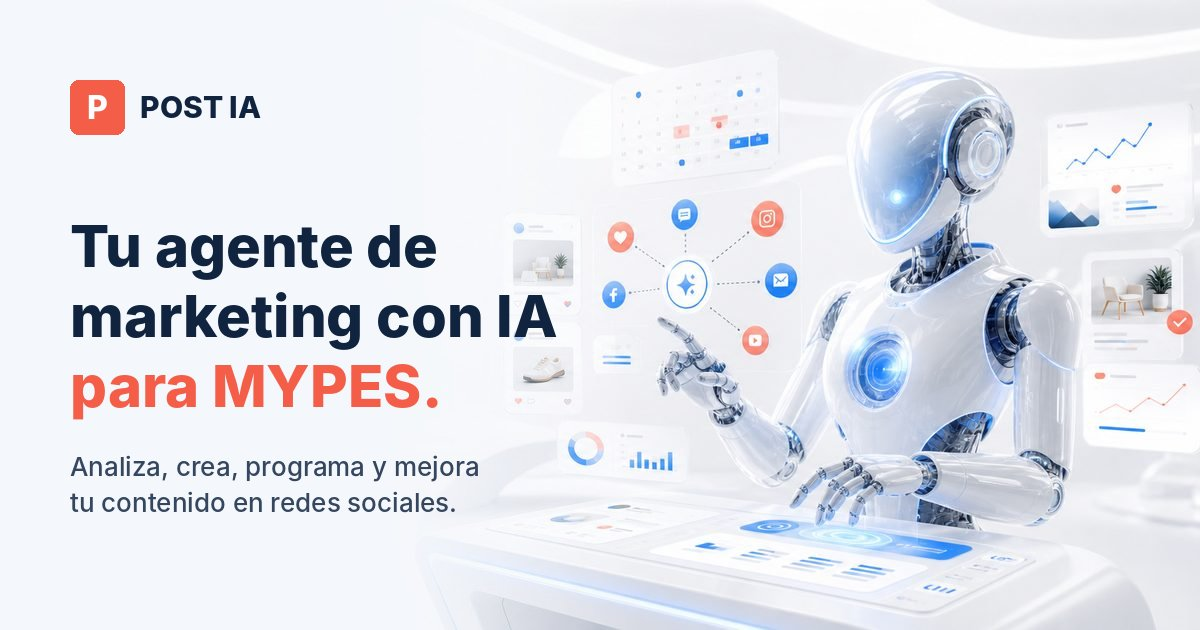
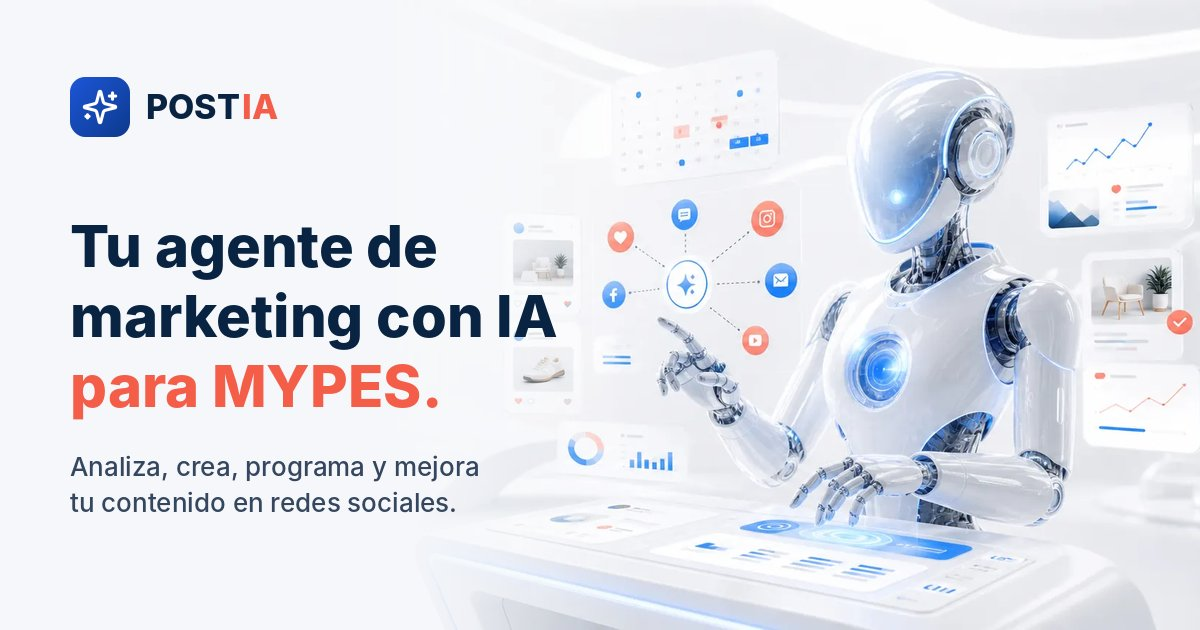
Aplicar branding de Figma (POST IA · App móvil)
- Símbolo del logo: cuadrado azul degradado (#1d56d8 -> #0c398d) con destello
- Logotipo: "POST" en azul marino (#092342) + "IA" en coral (#f45d48)
- Mismo símbolo en header, footer, demo del Studio y favicon
- Azul de acento alineado al de la app (#1d56d8)
- Imagen para compartir regenerada con el nuevo logo

Claude-Session: https://claude.ai/code/session_01MpzHq3h7SHUGHSTSj1LYq7

Changed region(s): [[0.0308, 0.1206, 0.2467, 0.2413]]

diff --git a/index.html b/index.html
@@ -7,7 +7,7 @@
       name="description"
       content="POST IA automatiza el marketing digital de las MYPES: analiza, crea, programa y mejora contenido para redes sociales."
     />
-    <meta name="theme-color" content="#f4f7fb" />
+    <meta name="theme-color" content="#f5f7fa" />
     <title>POST IA | Marketing que trabaja contigo</title>
     <link rel="canonical" href="https://fabricioonpoint-bot.github.io/postia.pe/" />
     <link rel="icon" href="favicon.svg" type="image/svg+xml" />
@@ -39,8 +39,8 @@
   <body>
     <header class="site-header">
       <a class="brand" href="#inicio" aria-label="POST IA, ir al inicio">
-        <span class="brand-symbol" aria-hidden="true">P</span>
-        <span>POST IA</span>
+        <span class="brand-symbol" aria-hidden="true"><svg viewBox="0 0 24 24" fill="none" stroke="currentColor" stroke-width="2" stroke-linecap="round" stroke-linejoin="round" aria-hidden="true"><path d="M9.937 15.5A2 2 0 0 0 8.5 14.063l-6.135-1.582a.5.5 0 0 1 0-.962L8.5 9.936A2 2 0 0 0 9.937 8.5l1.582-6.135a.5.5 0 0 1 .963 0L14.063 8.5A2 2 0 0 0 15.5 9.937l6.135 1.581a.5.5 0 0 1 0 .964L15.5 14.063a2 2 0 0 0-1.437 1.437l-1.582 6.135a.5.5 0 0 1-.963 0z"/><path d="M20 3v4"/><path d="M22 5h-4"/><path d="M4 17v2"/><path d="M5 18H3"/></svg></span>
+        <span class="brand-word">POST<em>IA</em></span>
       </a>
       <nav class="desktop-nav" id="mainNav" aria-label="Navegación principal">
         <a href="#problema">Problema</a>
@@ -218,7 +218,7 @@
 
           <div class="studio-window reveal">
             <header class="studio-topbar">
-              <div class="studio-logo"><span>P</span><strong>POST IA Studio</strong></div>
+              <div class="studio-logo"><span><svg viewBox="0 0 24 24" fill="none" stroke="currentColor" stroke-width="2" stroke-linecap="round" stroke-linejoin="round" aria-hidden="true"><path d="M9.937 15.5A2 2 0 0 0 8.5 14.063l-6.135-1.582a.5.5 0 0 1 0-.962L8.5 9.936A2 2 0 0 0 9.937 8.5l1.582-6.135a.5.5 0 0 1 .963 0L14.063 8.5A2 2 0 0 0 15.5 9.937l6.135 1.581a.5.5 0 0 1 0 .964L15.5 14.063a2 2 0 0 0-1.437 1.437l-1.582 6.135a.5.5 0 0 1-.963 0z"/><path d="M20 3v4"/><path d="M22 5h-4"/><path d="M4 17v2"/><path d="M5 18H3"/></svg></span><strong>POST IA Studio</strong></div>
               <div class="campaign-status"><i></i> Campaña guardada</div>
               <div class="studio-actions">
                 <button class="icon-button" aria-label="Vista previa"><i data-lucide="eye"></i></button>
@@ -409,7 +409,7 @@
 
     <footer class="site-footer">
       <div class="section-shell footer-grid">
-        <div><a class="brand footer-brand" href="#inicio"><span class="brand-symbol">P</span><span>POST IA</span></a><p>Marketing inteligente para pequeñas empresas.</p></div>
+        <div><a class="brand footer-brand" href="#inicio"><span class="brand-symbol" aria-hidden="true"><svg viewBox="0 0 24 24" fill="none" stroke="currentColor" stroke-width="2" stroke-linecap="round" stroke-linejoin="round" aria-hidden="true"><path d="M9.937 15.5A2 2 0 0 0 8.5 14.063l-6.135-1.582a.5.5 0 0 1 0-.962L8.5 9.936A2 2 0 0 0 9.937 8.5l1.582-6.135a.5.5 0 0 1 .963 0L14.063 8.5A2 2 0 0 0 15.5 9.937l6.135 1.581a.5.5 0 0 1 0 .964L15.5 14.063a2 2 0 0 0-1.437 1.437l-1.582 6.135a.5.5 0 0 1-.963 0z"/><path d="M20 3v4"/><path d="M22 5h-4"/><path d="M4 17v2"/><path d="M5 18H3"/></svg></span><span class="brand-word">POST<em>IA</em></span></a><p>Marketing inteligente para pequeñas empresas.</p></div>
         <nav><strong>Explorar</strong><a href="#problema">Problema</a><a href="#solucion">Solución</a><a href="#beneficios">Beneficios</a><a href="#registro">Acceso anticipado</a></nav>
         <nav class="social-nav" aria-label="Redes sociales">
           <strong>Redes</strong>

diff --git a/styles.css b/styles.css
@@ -6,7 +6,9 @@
   --muted: #718096;
   --line: #dce4ed;
   --navy: #092342;
-  --blue: #1d67e8;
+  --blue: #1d56d8;
+  --brand-blue: #1d56d8;
+  --brand-blue-deep: #0c398d;
   --sky: #dff1ff;
   --coral: #f45d48;
   --coral-dark: #d94735;
@@ -82,11 +84,15 @@ svg { width: 20px; height: 20px; stroke-width: 1.8; }
   width: 36px;
   height: 36px;
   place-items: center;
-  border-radius: 5px;
-  background: var(--coral);
+  border-radius: 10px;
+  background: linear-gradient(145deg, var(--brand-blue) 0%, var(--brand-blue-deep) 100%);
+  box-shadow: 0 6px 16px rgba(13, 57, 141, .28);
   color: white;
-  font-size: 1rem;
 }
+.brand-symbol svg { width: 20px; height: 20px; }
+.brand-word { font-size: 1.22rem; letter-spacing: -.03em; }
+.brand-word em { margin-left: 1px; color: var(--coral); font-style: normal; }
+.footer-brand .brand-word { color: white; }
 .desktop-nav { display: flex; gap: 30px; font-size: .88rem; font-weight: 600; }
 .desktop-nav a:hover { color: var(--coral); }
 .button {
@@ -200,7 +206,8 @@ svg { width: 20px; height: 20px; stroke-width: 1.8; }
 .studio-window { min-height: 610px; margin-top: 54px; overflow: hidden; border: 1px solid #cfd8e3; border-radius: 8px; background: white; box-shadow: var(--shadow); }
 .studio-topbar { display: grid; min-height: 62px; grid-template-columns: 1fr auto 1fr; align-items: center; padding: 0 16px; border-bottom: 1px solid var(--line); }
 .studio-logo { display: flex; align-items: center; gap: 9px; }
-.studio-logo span { display: grid; width: 30px; height: 30px; place-items: center; border-radius: 5px; background: var(--coral); color: white; font-family: "Manrope"; font-weight: 800; }
+.studio-logo span { display: grid; width: 30px; height: 30px; place-items: center; border-radius: 8px; background: linear-gradient(145deg, var(--brand-blue), var(--brand-blue-deep)); color: white; }
+.studio-logo span svg { width: 16px; height: 16px; }
 .campaign-status { display: flex; align-items: center; gap: 7px; color: var(--muted); font-size: .72rem; }
 .campaign-status i { width: 7px; height: 7px; border-radius: 50%; background: #28b777; }
 .studio-actions { display: flex; justify-content: flex-end; gap: 8px; }
@@ -301,7 +308,7 @@ svg { width: 20px; height: 20px; stroke-width: 1.8; }
 .field-row { display: grid; grid-template-columns: 1fr 1fr; gap: 12px; }
 label { display: grid; gap: 7px; color: var(--ink-soft); font-size: .76rem; font-weight: 700; }
 input, select { width: 100%; min-height: 48px; border: 1px solid var(--line); border-radius: 5px; outline: 0; background: #f8fafc; color: var(--ink); padding-inline: 13px; }
-input:focus, select:focus { border-color: var(--blue); box-shadow: 0 0 0 3px rgba(29,103,232,.1); }
+input:focus, select:focus { border-color: var(--blue); box-shadow: 0 0 0 3px rgba(29,86,216,.12); }
 input::placeholder { color: #9ba8b8; }
 .submit-button { width: 100%; justify-content: space-between; margin-top: 4px; }
 .submit-button:disabled { cursor: wait; opacity: .7; }
